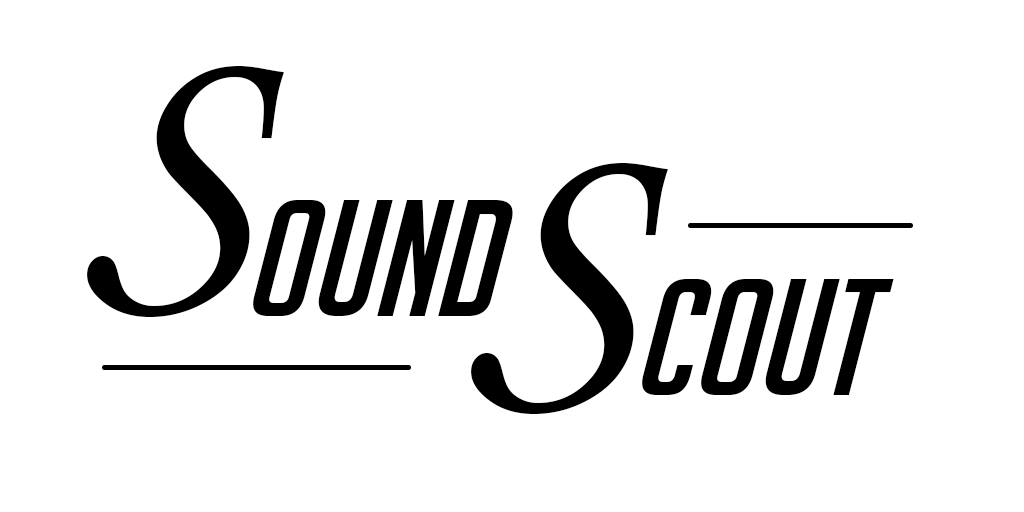
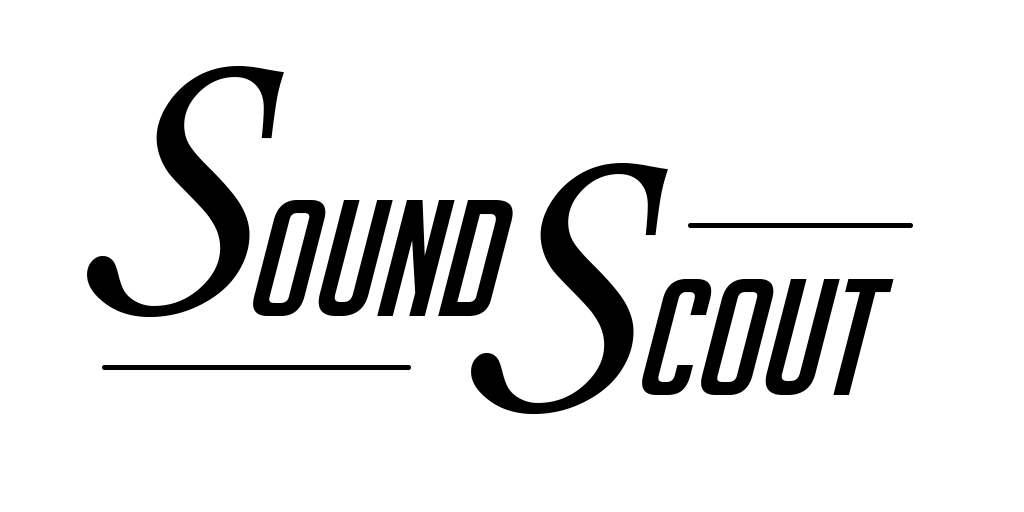
Fixed transparency and added CSS file

diff --git a/home.html b/home.html
@@ -10,14 +10,13 @@
 </head>
 
 <body>
-
 <div class = "content">
     <div class="row">
         <!-- Top Header -->
         <div class="head" >
             <!--Middle column for logo (4 wide)-->
             <div class"col-md-4 col-md-offset-4">
-                <img src="./SoundScout-Transparent.png" class="logo-head img-responsive center-block" alt="SoundScout" >
+                <img src="./SoundScout.png" class="logo-head img-responsive center-block" alt="SoundScout" >
             </div>
 
         </div>
@@ -95,6 +94,7 @@
         
     </div>
 </div>
+
     
 
 <script src="https://ajax.googleapis.com/ajax/libs/jquery/1.12.4/jquery.min.js"></script>

diff --git a/head.css b/head.css
@@ -1,0 +1,21 @@
+.head {
+    background-color: lightblue;
+    padding: 1em;
+
+}
+
+.nav {
+	background-color: lightblue;
+	padding: 1em;
+	border-top: solid;
+}
+
+.search {
+	float: right;
+	max-width: 10em;
+}
+
+img.logo-head {
+    max-width: 15em;
+
+}
